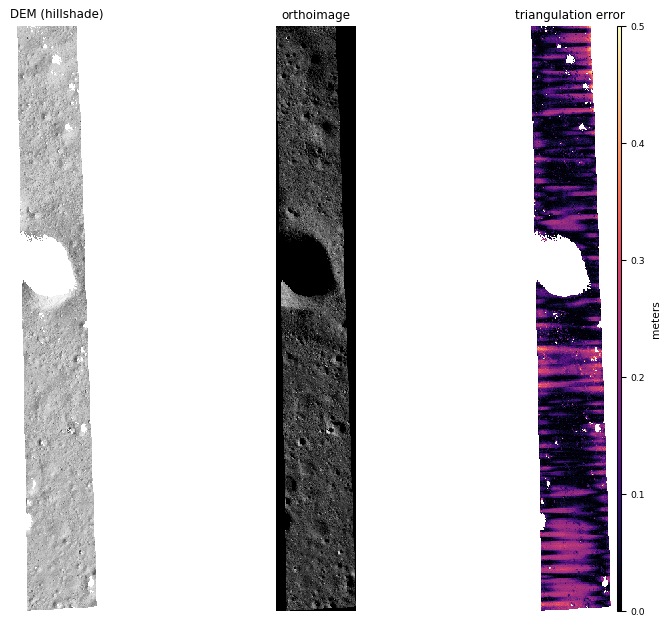
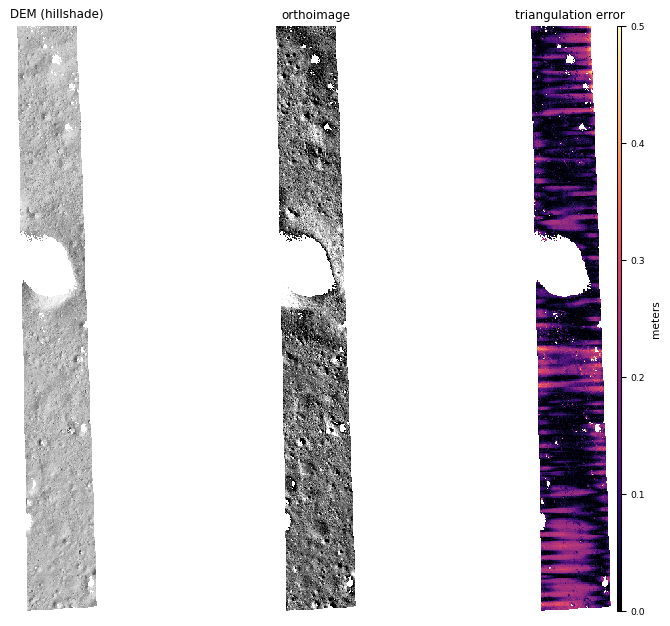
Chandrayaan-2 doc: LOLA refinement command and result, transparent ortho
Use --save-inv-transformed-reference-points so the refinement produces the
DEM in the LOLA frame (the DEM is the reference), note it can be gridded
with point2dem, and record the north-east-down translation and the
before/after fit. Render the final orthoimage with nodata transparent, to
match the DEM and triangulation-error panels.

Changed region(s): [[0.3881, 0.0304, 0.5373, 1.0]]

diff --git a/docs/examples/chandrayaan2.rst b/docs/examples/chandrayaan2.rst
@@ -471,15 +471,23 @@ already in the ballpark, the alignment can be refined directly against the LOLA
 shots with ordinary point-to-plane ICP (:numref:`align-method`), which now
 converges. Pass the DEM first, as the denser cloud (:numref:`pc_align`)::
 
-    pc_align --max-displacement 250          \
-      --csv-format "2:lon 3:lat 4:radius_km" \
-      --save-transformed-source-points       \
-      dem.tif lola_shots.csv                 \
+    pc_align --max-displacement 250           \
+      --csv-format "2:lon 3:lat 4:radius_km"  \
+      --save-inv-transformed-reference-points \
+      stereo_map/run-DEM.tif lola_shots.csv   \
       -o align_lola/run
 
-The inverse transform (:numref:`prevtrans`) then maps the DEM onto LOLA and can
-be carried onto the cameras (:numref:`ba_pc_align`). Here the DEM is already
-sub-meter against LOLA, so this refinement is optional.
+Here the DEM is the reference (the denser cloud), so the roles are reversed and
+the inverse transform maps it onto LOLA. The produced cloud
+``align_lola/run-trans_reference.tif`` is that DEM in the LOLA frame; grid it with
+``point2dem`` (:numref:`point2dem`) as before. The transform (:numref:`prevtrans`)
+can also be carried onto the cameras (:numref:`ba_pc_align`).
+
+The correction is small but real: a north-east-down translation of about (2.6,
+1.8, 0.5) meters, with a very small rotation. It is mostly a 3 m horizontal nudge
+plus a 0.5 m down shift that removes the slight vertical bias (the DEM minus the
+LOLA shots goes from a median of -0.47 m to about 0) and tightens the fit by
+roughly 20 percent (NMAD from 1.74 to 1.39 m). 
 
 .. _chandra2_tmc:
 
